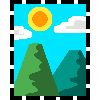
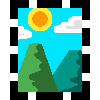
Update:
#assets.py
-added save_icon
-added rotate_icon

#main_element.py
-created a rotation button
-created a save button

#main_function.py
-added an image rotation function

#main.py
-added an application icon

#/aset
-added cropper_icon.png
-added rotate.png
-added save.png
-slightly tidied up show_icon.png

Changed region(s): [[0.09, 0.0, 0.9, 1.0]]

diff --git a/main_function.py b/main_function.py
@@ -134,6 +134,18 @@ Information
         except AttributeError:
             messagebox.showerror("No Image", "You haven't added any image yet.")
 
+    def rotate(self, crop_label):
+        try:
+            self.cropped_img = self.cropped_img.rotate(90, expand=True)
+            raw_rot_img = self.cropped_img 
+            show_rot_img = ImageTk.PhotoImage(raw_rot_img)
+            crop_label.config(image=show_rot_img)
+            crop_label.image = show_rot_img
+        
+            # rot_img.show()
+        except AttributeError:
+            messagebox.showerror("No Image", "You haven't cropped any image yet.")
+
     def zoomin_crop_img(self, crop_label):
         try:
             self.crop_width = self.crop_width / (90/100)

diff --git a/main_element.py b/main_element.py
@@ -266,13 +266,13 @@ class Main_element:
 
 
         button5 = self.Button_Tools(self.main_frame.frame_btn_tools,
-                                    None,
-                                    None,
+                                    self.aset.rotate_icon,
+                                    lambda: self.main_function.rotate(self.crop_img_label),
                                     1,0)
         button5.button_tool()
 
         button6 = self.Button_Tools(self.main_frame.frame_btn_tools,
-                                    None,
+                                    self.aset.save_icon,
                                     None,
                                     1,1)
         button6.button_tool()

diff --git a/aset.py b/aset.py
@@ -10,6 +10,8 @@ class Aset:
         self.zoomout_icon = self.load_img('aset/zoomout.png', (25,25))
         self.zoomin_crop_icon = self.load_img('aset/crop_zoomin.png', (25,25))
         self.zoomout_crop_icon = self.load_img('aset/crop_zoomout.png', (25,25))
+        self.save_icon = self.load_img('aset/save.png', (25,25))
+        self.rotate_icon = self.load_img('aset/rotate.png', (25,25))
 
 
     def load_img(self, path, size):

diff --git a/main.py b/main.py
@@ -38,6 +38,8 @@ class Main_window:
         self.window_setup()
 
     def window_setup(self):
+        icon = PhotoImage(file='aset/cropper_icon.png')
+        self.main_window.iconphoto(True, icon)
         self.main_window.geometry("1000x600")
         self.main_window.title("Image Cropper")
 
